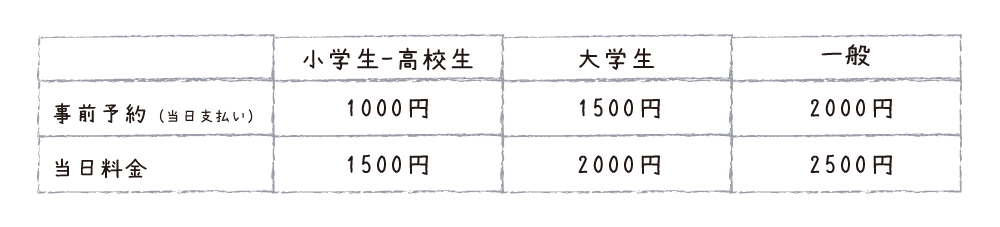
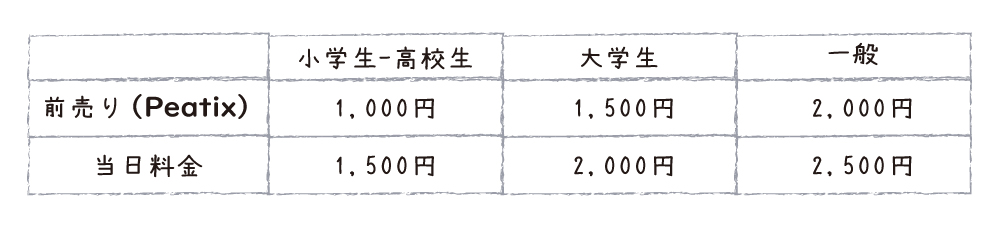
:pencil2: fix: 日程

diff --git a/src/App.tsx b/src/App.tsx
@@ -63,7 +63,7 @@ const App = () => {
                 <h5>会場：茅野市民館</h5>
               </div>
             </div>
-            <div className="w-nav p-3">
+            <div className="w-nav p-3 invisible visible-md">
               <Image src={affImg} className="w-100" />
             </div>
           </Container>
@@ -72,6 +72,9 @@ const App = () => {
             id="about"
             className="px-nav bg-white py-5 bg-opacity-75"
           >
+            <div className="d-block d-md-none w-25 mx-auto">
+              <Image src={mainLogoImg} className="rounded-circle w-25" />
+            </div>
             <h1>What's Celtic Seed Project</h1>
             <p>
               Celtic Seed
@@ -98,7 +101,7 @@ const App = () => {
               </Col>
             </Row>
             <p className="mt-3">
-              2021年12月17日（土）に記念すべき１回目が開催されます。
+              2021年12月19日（土）に記念すべき１回目が開催されます。
               ケルト音楽に興味がある方、お気軽にお越しいただけたら嬉しいです。
               お越しをお待ちしております。
             </p>
@@ -126,8 +129,8 @@ const App = () => {
                   ■場所：Storyhouse Cafe & Bar（長野県松本市大手４丁目３−１９）
                   <br />
                   ご予約は
-                  <a href="mailto:kojikojimoheji@gmail.com">
-                    kojikojimoheji@gmail.com
+                  <a href="mailto:celticseedproject@gmail.com">
+                    celticseedproject@gmail.com
                   </a>
                   まで
                   <br />※
@@ -199,7 +202,7 @@ const App = () => {
                   <br />
                   ・こまめな手洗いや手指の消毒をお願い致します。
                   <br />
-                  点他のお客様との感覚を開けていただき（2mほど）、各施設での長時間の滞在は極力お控えくださいます様にお願い致します。
+                  ・他のお客様との感覚を開けていただき（2mほど）、各施設での長時間の滞在は極力お控えくださいます様にお願い致します。
                   <br />
                   ・飛沫予防のため、対面での会話は極力お控えくださいますようお願い致します。
                   <br />
@@ -216,8 +219,52 @@ const App = () => {
             className="px-nav py-5 bg-secondary bg-opacity-75 text-white"
           >
             <h1>Tickets</h1>
-            <Image src={priceImg} className="w-md-75 w-100 my-3" />
-            <p>申し込みは準備中です。お待ちください♪</p>
+            <Image
+              src={priceImg}
+              className="w-lg-75 w-100 my-3 shadow-sm rounded"
+            />
+
+            <div>
+              <Button
+                className="shadow-sm"
+                href="https://celtic-seed-2021-winter.peatix.com/view"
+              >
+                申し込みページへ
+              </Button>
+              <div className="mt-3">
+                <p>
+                  <a
+                    className="text-white pt-3"
+                    data-bs-toggle="collapse"
+                    href="#collapseTicket"
+                    role="button"
+                    aria-expanded="false"
+                    aria-controls="collapseTicket"
+                  >
+                    チケットに関して
+                  </a>
+                </p>
+                <div className="collapse" id="collapseTicket">
+                  <Card className="card-body text-start text-black">
+                    <small>
+                      ・Peatix前売りチケット販売期間は2021/10/23/(土)〜12/12/(日)です。
+                      <br />
+                      ・ワークショップに参加されない方は、コンサートの60分前(16:00)よりご入場いただけます。
+                      <br />
+                      ・三密を避けるため、お時間に余裕をもってお越しくださいますようご協力をお願いします。
+                      <br />
+                      ・未就学児は無料です。
+                      <br />
+                      ・ご不明な点がありましたら
+                      <a href="mailto:celticseedproject@gmail.com">
+                        celticseedproject@gmail.com
+                      </a>
+                      までお問い合わせください。
+                    </small>
+                  </Card>
+                </div>
+              </div>
+            </div>
           </Container>
           <Container
             id="artists"

diff --git a/public/index.html b/public/index.html
@@ -2,14 +2,14 @@
 <html lang="ja">
   <head>
     <meta charset="utf-8" />
-    <link rel="icon" href="%PUBLIC_URL%/mainLogo.png" />
+    <link rel="icon" type="image/png" href="%PUBLIC_URL%/mainLogo.png" />
     <meta name="viewport" content="width=device-width, initial-scale=1" />
     <meta name="theme-color" content="#000000" />
     <meta
       name="description"
-      content="Web site created using create-react-app"
+      content="ケルティックシードプロジェクト。ケルト音楽を地域に根付かせたい。"
     />
-    <link rel="apple-touch-icon" href="%PUBLIC_URL%/logo192.png" />
+    <link rel="apple-touch-icon" href="%PUBLIC_URL%/mainLogo.png" />
     <!--
       manifest.json provides metadata used when your web app is installed on a
       user's mobile device or desktop. See https://developers.google.com/web/fundamentals/web-app-manifest/

diff --git a/src/App.scss b/src/App.scss
@@ -20,7 +20,7 @@ a {
 }
 @include media-breakpoint-up(md) {
   .w-offset-nav {
-    width: 76vw;
+    width: 78vw;
   }
 }
 
@@ -33,6 +33,12 @@ a {
 
 @include media-breakpoint-up(md) {
   .w-md-75 {
+    width: 75% !important;
+  }
+}
+
+@include media-breakpoint-up(lg) {
+  .w-lg-75 {
     width: 75% !important;
   }
 }
